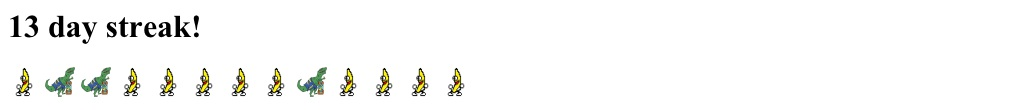
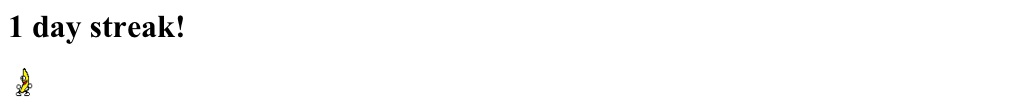
day_13 redoing commit streak generator

Changed region(s): [[0.0, 0.5943, 0.4688, 0.9057], [0.0, 0.1415, 0.2188, 0.4245]]

diff --git a/day_13/commit_streak_image_generator.py b/day_13/commit_streak_image_generator.py
@@ -26,6 +26,10 @@ for commit in list(repo.iter_commits('main')):
         commit_days.append(day)
 
 last_day = commit_days[0]
+
+# The commit order is from most recent to oldest. Reverse the list to get the most recent streak
+commit_days.reverse()
+
 max_streak = 1
 for commit_day in commit_days[1:]:
     if commit_day == last_day.shift(days=-1):
@@ -34,9 +38,7 @@ for commit_day in commit_days[1:]:
         max_streak = 1
     last_day = commit_day
 
-#pip_dir = "media"
 pip_files = [os.path.join(pip_dir, f) for f in os.listdir(pip_dir) if f.startswith("pip_") and f.endswith(".png") and os.path.isfile(os.path.join(pip_dir, f))]
-print(pip_files)
 
 pips_html_image_tags_as_string = []
 for _ in range(0, max_streak):

diff --git a/day_13/README.md b/day_13/README.md
@@ -16,21 +16,38 @@ The [day_6](../day_6/) and [day_8](../day_8) are kind of broken and it's annoyin
 The goal is to for automatically create a image that shows the number of uninterrupted days I've added to this repository and update the repository with that image
 
 Example image from day_6 project
-![](media/streak.jpg)
+![](media/old_streak.jpg)
 
 ### Results
 
+Much better. 
+
+The 10-day streak limit was a bug in my day_6 script. There was an actual gap because the git timestamps were in UTC, not
+local time. So when I had commited a bit later in the evening the UTC had already rolled over. 
+
+Also there was a bug that would count the oldest streak as the most recent. Commits are returned from newest to oldest in the git module
+I was using. I just reversed the list.
+
+The commit hook scripts are still not great but I used a better method to work around 'post-commit' always being run, even if --no-verify was
+passed to commit command.
+
+Lastly I added little characters, one for each day in the streak to the image. It's dumb in a way i like.
 
 ---
 
 ### If I was to do more
-
 ---
+
+- add more dumb 'pip' characters to my streak image.
+- make the post/pre hook scripts better
+
 
 ### Notes
 
 ---
 
 ### Example 
+
+![](media/streak.jpg)
 
 ---
